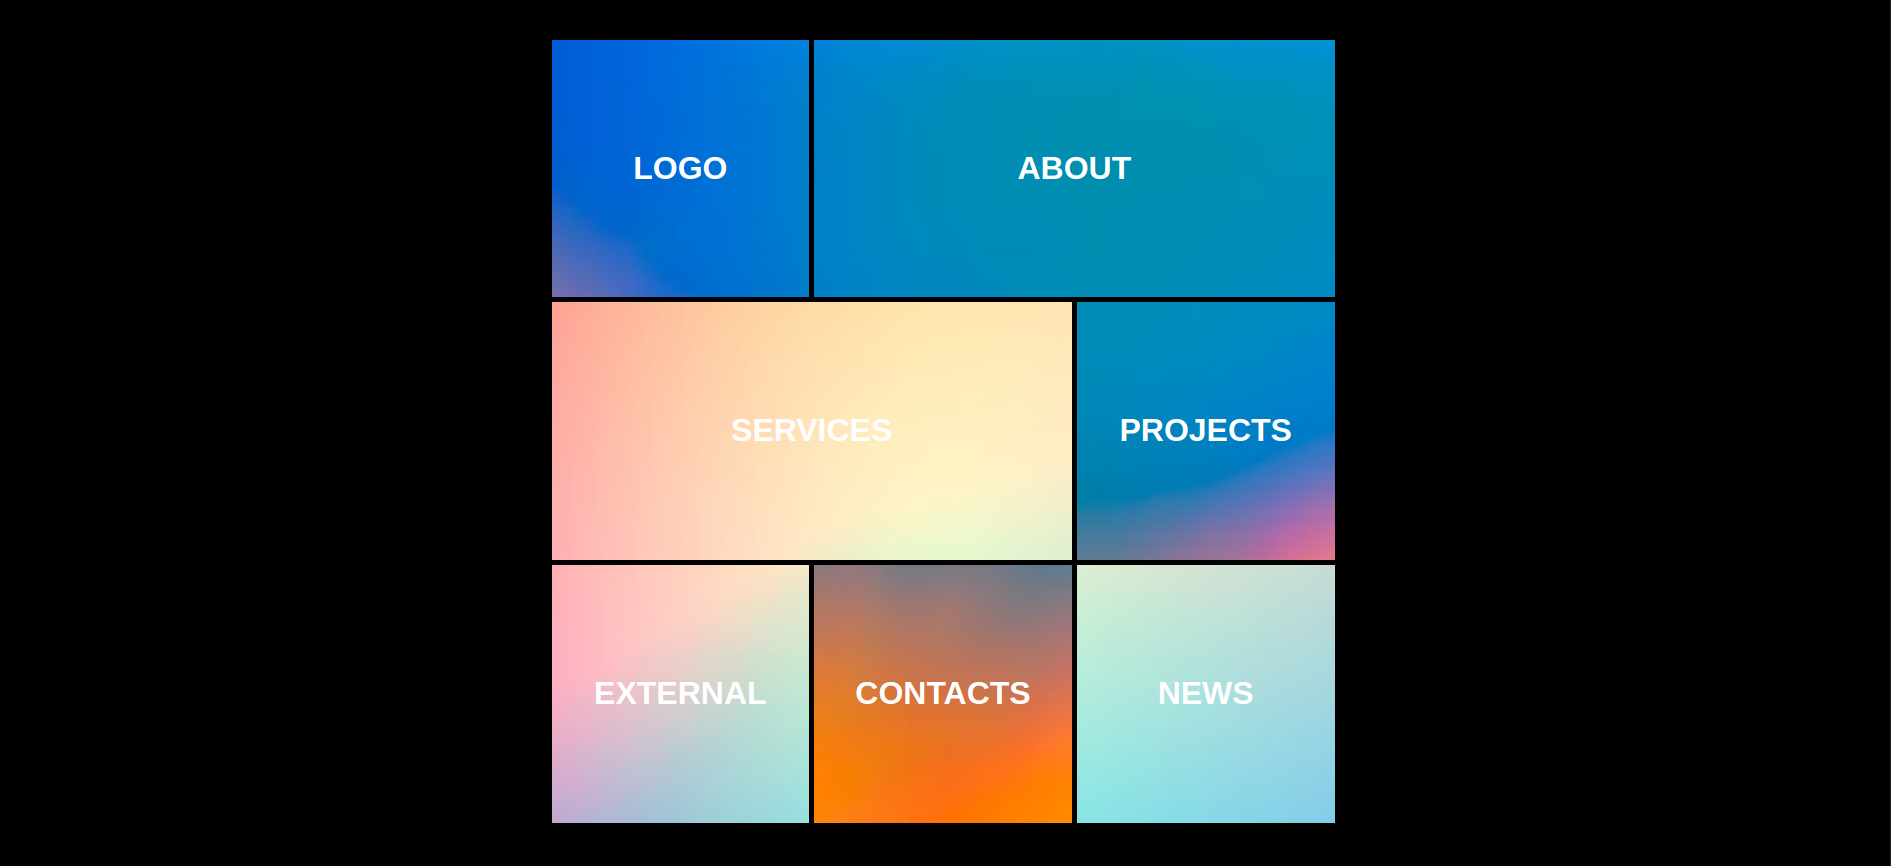
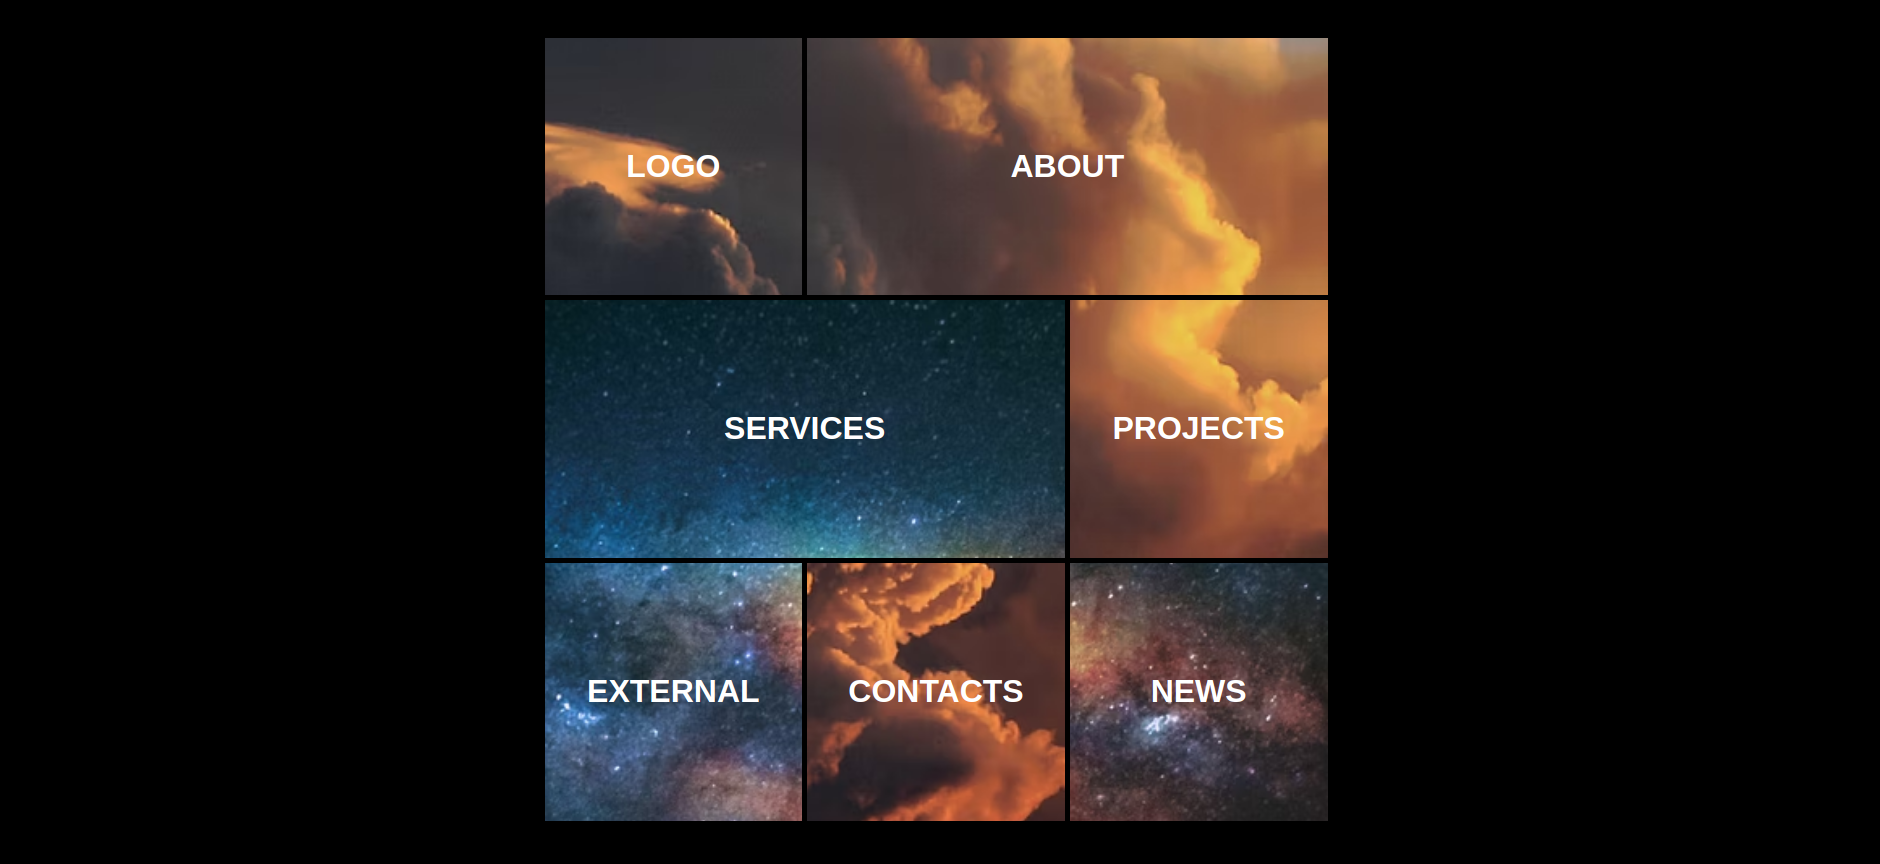
gridhome update

diff --git a/pages/gridhome/style.css b/pages/gridhome/style.css
@@ -33,14 +33,14 @@ body {
 
 .background-a {
   background-color: orange;
-  background-image: url('https://images.unsplash.com/photo-1550859492-d5da9d8e45f3?ixlib=rb-1.2.1&ixid=MnwxMjA3fDB8MHxwaG90by1wYWdlfHx8fGVufDB8fHx8&auto=format&fit=crop&w=1170&q=80');
+  background-image: url('https://images.unsplash.com/photo-1536244636800-a3f74db0f3cf?ixlib=rb-1.2.1&ixid=MnwxMjA3fDB8MHxwaG90by1wYWdlfHx8fGVufDB8fHx8&auto=format&fit=crop&w=1092&q=80');
   background-attachment: fixed;
   background-size: cover;
 }
 
 .background-b {
   background-color: pink;
-  background-image: url('https://images.unsplash.com/photo-1579546929518-9e396f3cc809?ixlib=rb-1.2.1&ixid=MnwxMjA3fDB8MHxwaG90by1wYWdlfHx8fGVufDB8fHx8&auto=format&fit=crop&w=1170&q=80');
+  background-image: url('https://images.unsplash.com/photo-1502134249126-9f3755a50d78?ixlib=rb-1.2.1&ixid=MnwxMjA3fDB8MHxwaG90by1wYWdlfHx8fGVufDB8fHx8&auto=format&fit=crop&w=1170&q=80');
   background-attachment: fixed;
   background-size: cover;
 }
